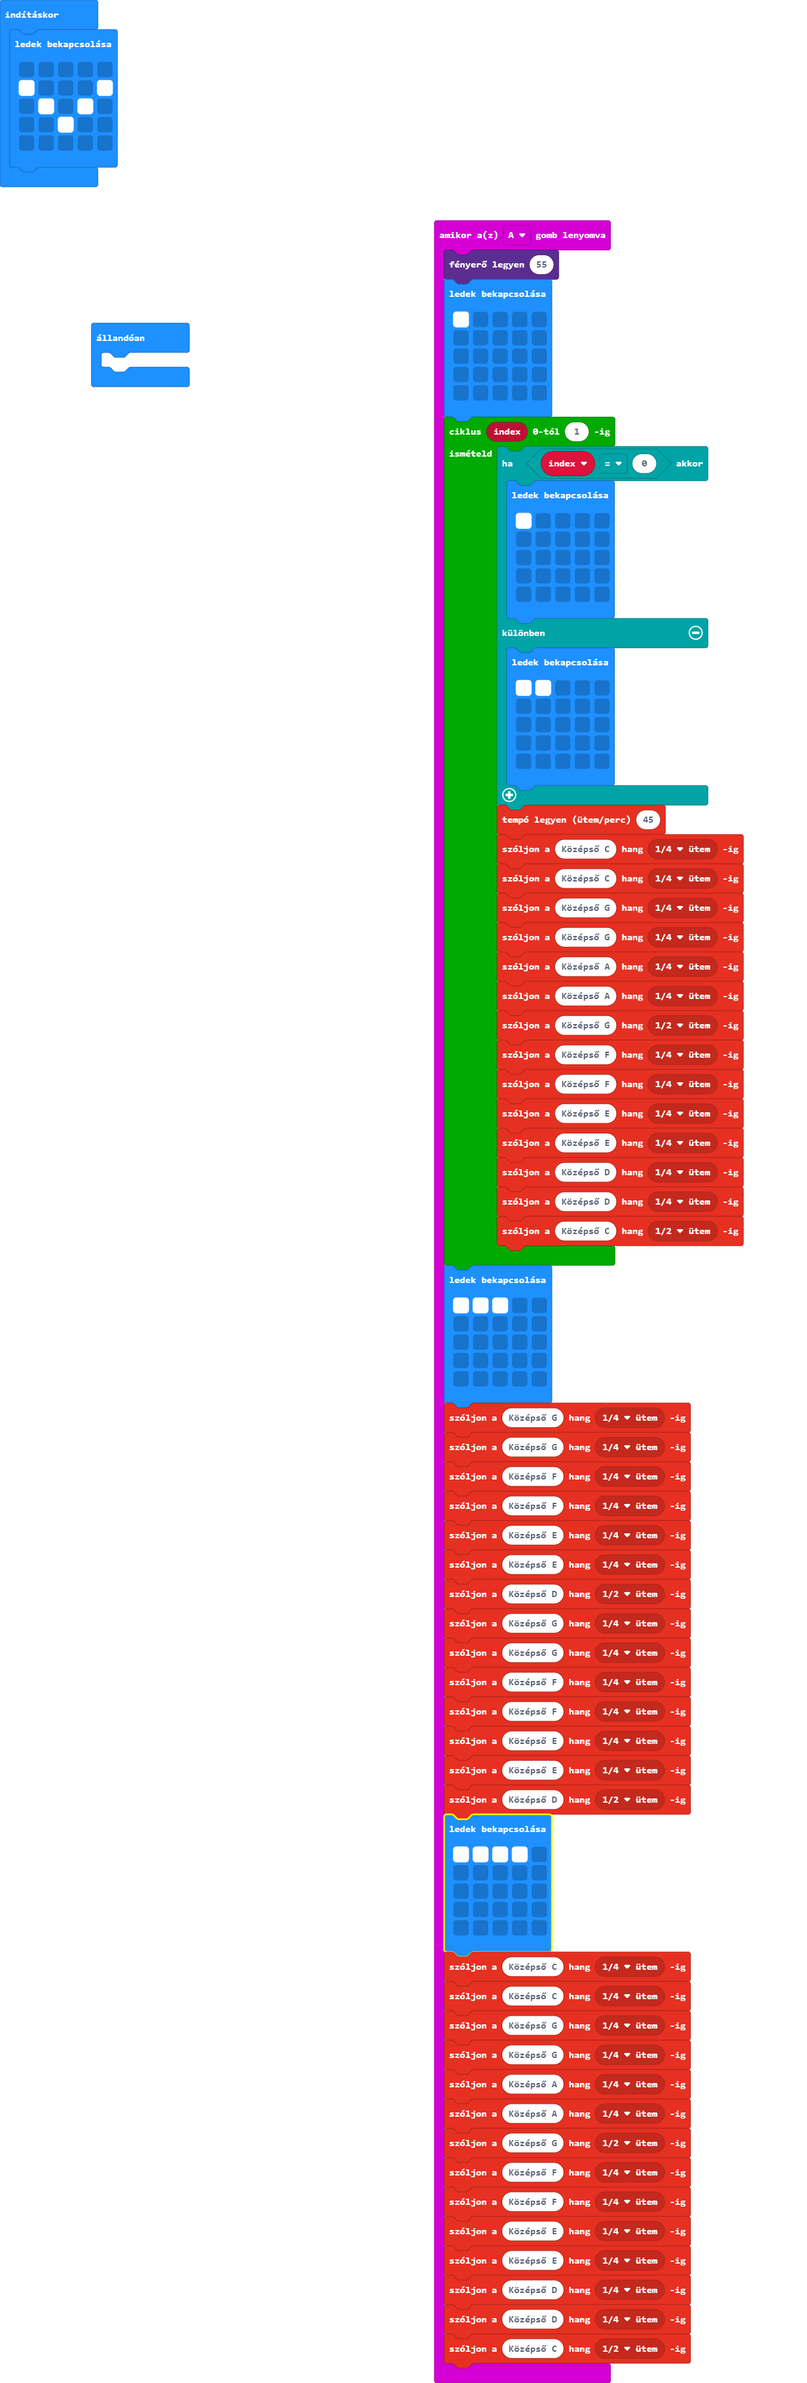
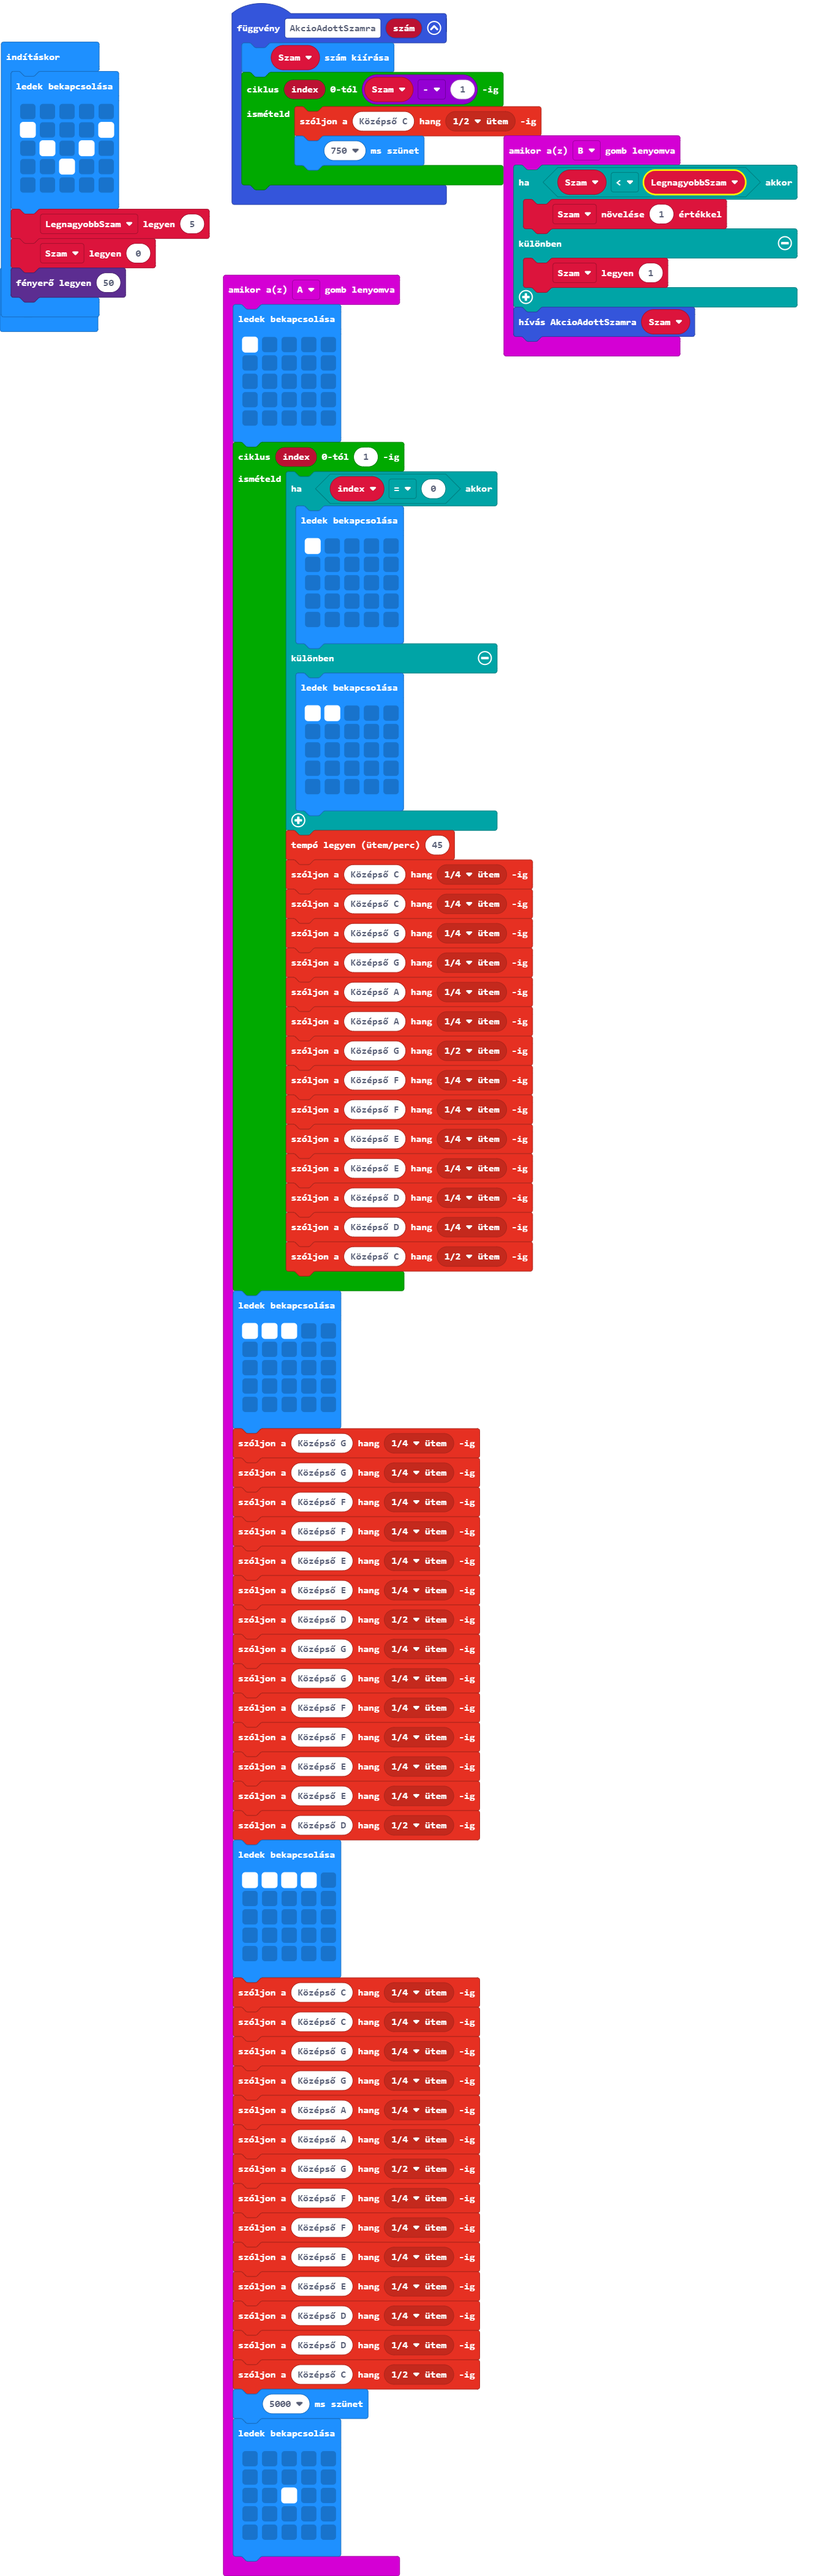
A dallam B számolás 1 to n

diff --git a/main.ts b/main.ts
@@ -1,5 +1,4 @@
 input.onButtonPressed(Button.A, function () {
-    led.setBrightness(55)
     basic.showLeds(`
         # . . . .
         . . . . .
@@ -83,7 +82,32 @@ input.onButtonPressed(Button.A, function () {
     music.playTone(294, music.beat(BeatFraction.Quarter))
     music.playTone(294, music.beat(BeatFraction.Quarter))
     music.playTone(262, music.beat(BeatFraction.Half))
+    basic.pause(5000)
+    basic.showLeds(`
+        . . . . .
+        . . . . .
+        . . # . .
+        . . . . .
+        . . . . .
+        `)
 })
+input.onButtonPressed(Button.B, function () {
+    if (Szam < LegnagyobbSzam) {
+        Szam += 1
+    } else {
+        Szam = 1
+    }
+    AkcioAdottSzamra(Szam)
+})
+function AkcioAdottSzamra (szám: number) {
+    basic.showNumber(Szam)
+    for (let index = 0; index <= Szam - 1; index++) {
+        music.playTone(262, music.beat(BeatFraction.Half))
+        basic.pause(750)
+    }
+}
+let Szam = 0
+let LegnagyobbSzam = 0
 basic.showLeds(`
     . . . . .
     # . . . #
@@ -91,6 +115,9 @@ basic.showLeds(`
     . . # . .
     . . . . .
     `)
+LegnagyobbSzam = 5
+Szam = 0
+led.setBrightness(50)
 basic.forever(function () {
 	
 })
